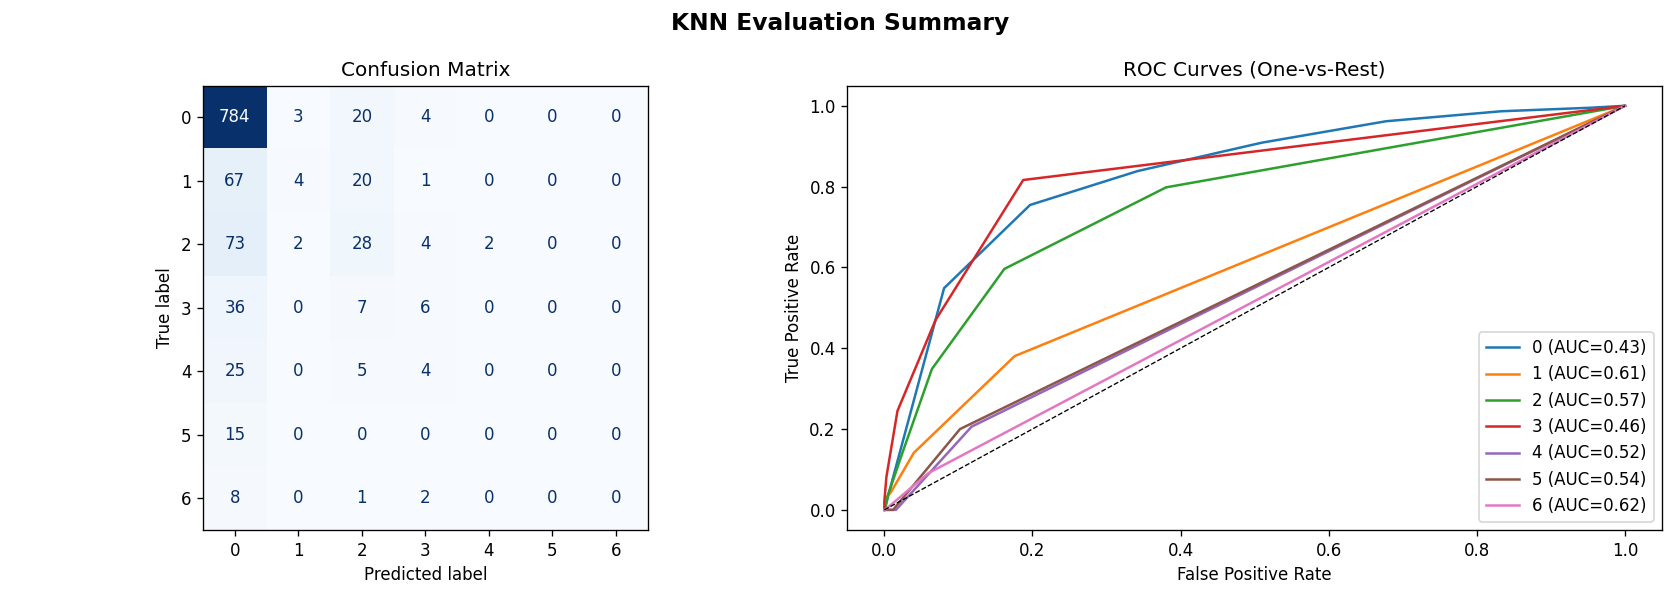
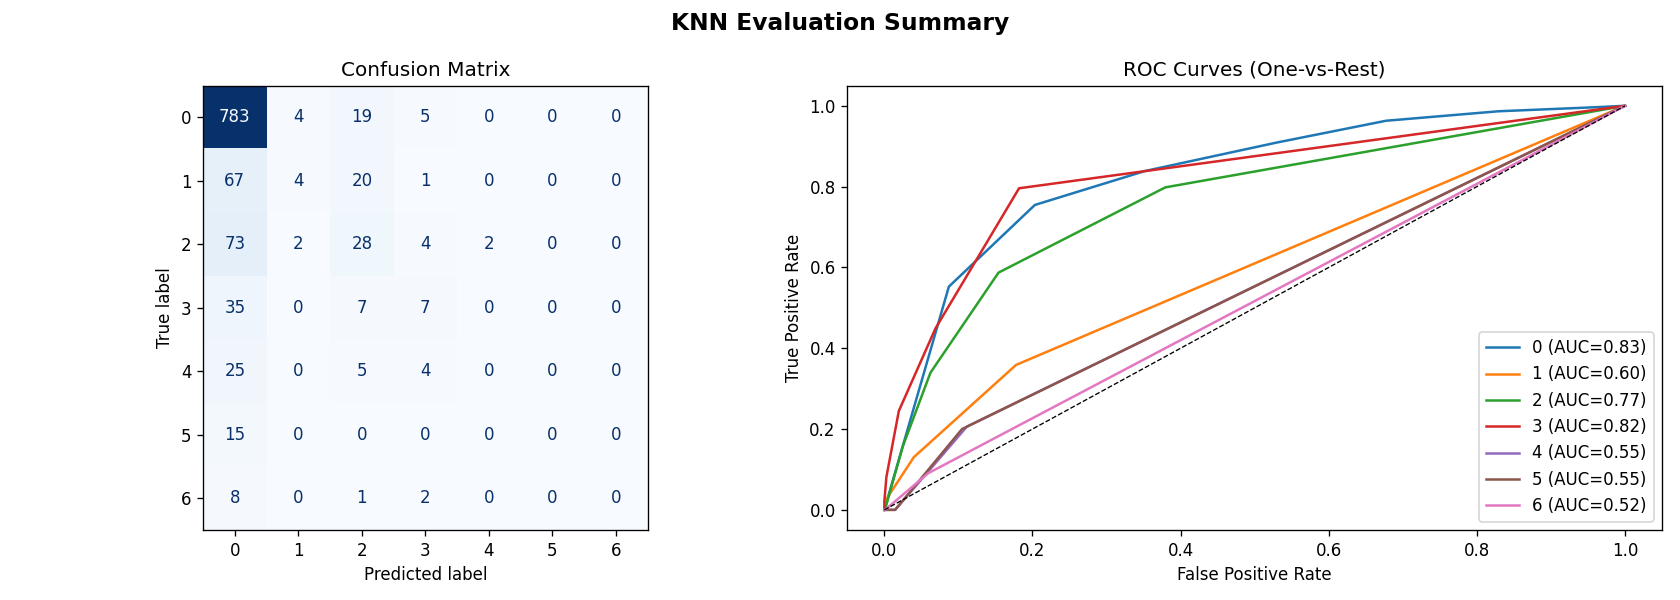
Minor bug and continuity fixes

diff --git a/knn.py b/knn.py
@@ -4,12 +4,13 @@
 # with k selected using grid search over element k in set {3, 5, 7, 11}.
 
 
+import os
 import numpy as np
 import pandas as pd
 from sklearn.neighbors import KNeighborsClassifier
 from sklearn.decomposition import PCA
 from sklearn.model_selection import GridSearchCV
-from config import TRAIN_LABELED_CSV, TEST_CSV
+from config import TRAIN_LABELED_CSV, TEST_CSV, DATA_DIR, RANDOM_SEED
 from utils import preprocess_image, normalize_image
 from eval_script import evaluate
 
@@ -22,8 +23,9 @@ def load_images(csv):
 	X = []
 	Y = []
 
-	for _, row in df.iterrows():
-		img = preprocess_image(row['image_path'])
+	for index, row in df.iterrows():
+		image_path = os.path.join(DATA_DIR, row['image_id'] + '.jpg')
+		img = preprocess_image(image_path)
 		img = normalize_image(img)
 		X.append(img.flatten())
 		Y.append(row['label'])
@@ -35,7 +37,7 @@ x_train, y_train = load_images(TRAIN_LABELED_CSV)
 x_test, y_test = load_images(TEST_CSV)
 
 # apply PCA
-pca = PCA(n_components=0.95)	# 95% variance retained
+pca = PCA(n_components=100, random_state=RANDOM_SEED)	# apply PCA (Exactly 100 components and a random seed)
 x_train = pca.fit_transform(x_train)
 x_test = pca.transform(x_test)
 

diff --git a/Project_Report.tex b/Project_Report.tex
@@ -284,8 +284,8 @@ and reduced to 100 components via Principal Component Analysis
 (PCA) before classification.
 
 \textit{K-Nearest Neighbors (KNN):} Trained on PCA-reduced features
-using Euclidean distance, with $k$ selected via grid search over
-$k \in \{3, 5, 7, 11\}$.
+using Euclidean distance, with $k$ selected via 5-fold cross-validated
+grid search on the training set over $k \in \{3, 5, 7, 11\}$.
 
 \textit{Decision Tree:} Trained using the Gini impurity criterion,
 with maximum depth tuned over $\{5, 10, 20, \text{None}\}$ on the

diff --git a/eval_script.py b/eval_script.py
@@ -32,7 +32,7 @@ def evaluate(model_name: str, y_true: np.ndarray, y_pred: np.ndarray, y_prob: np
 	roc_aucs = {}
 	for i, cls in enumerate(CLASSES):
 		ovr_true = y_true == i	# isolate class to compare, one-vs-rest
-		roc_aucs[cls] = roc_auc_score(ovr_true, y_prob[:, 1])
+		roc_aucs[cls] = roc_auc_score(ovr_true, y_prob[:, i])
 
 	print(f"{model_name} Evaluation Results")
 	print(f"Macro-Averaged F1 Score: {macro_f1:.4f}")
